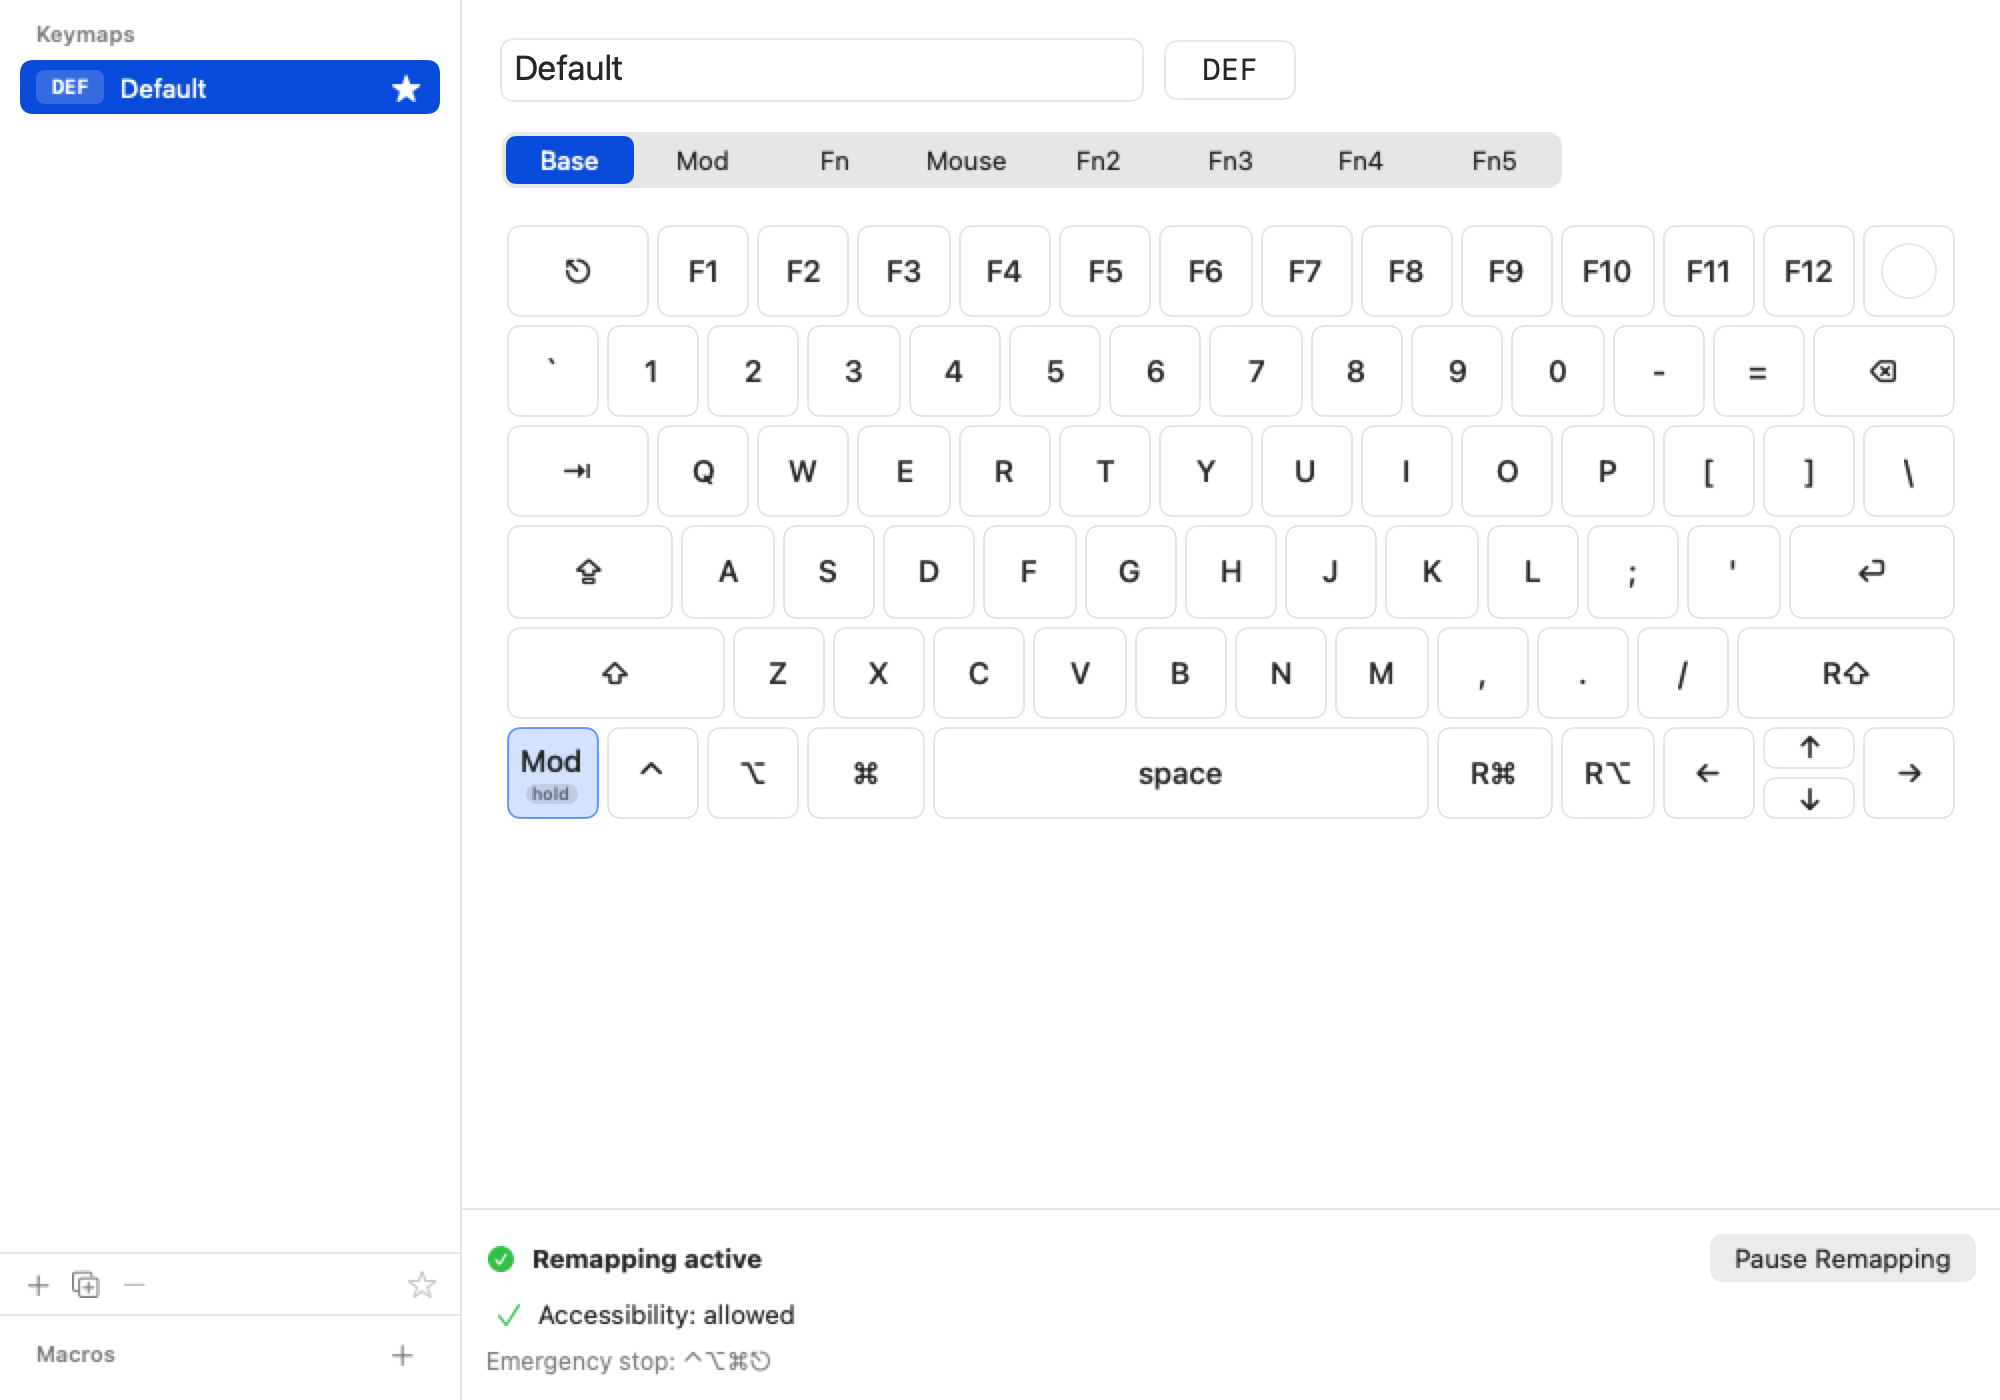
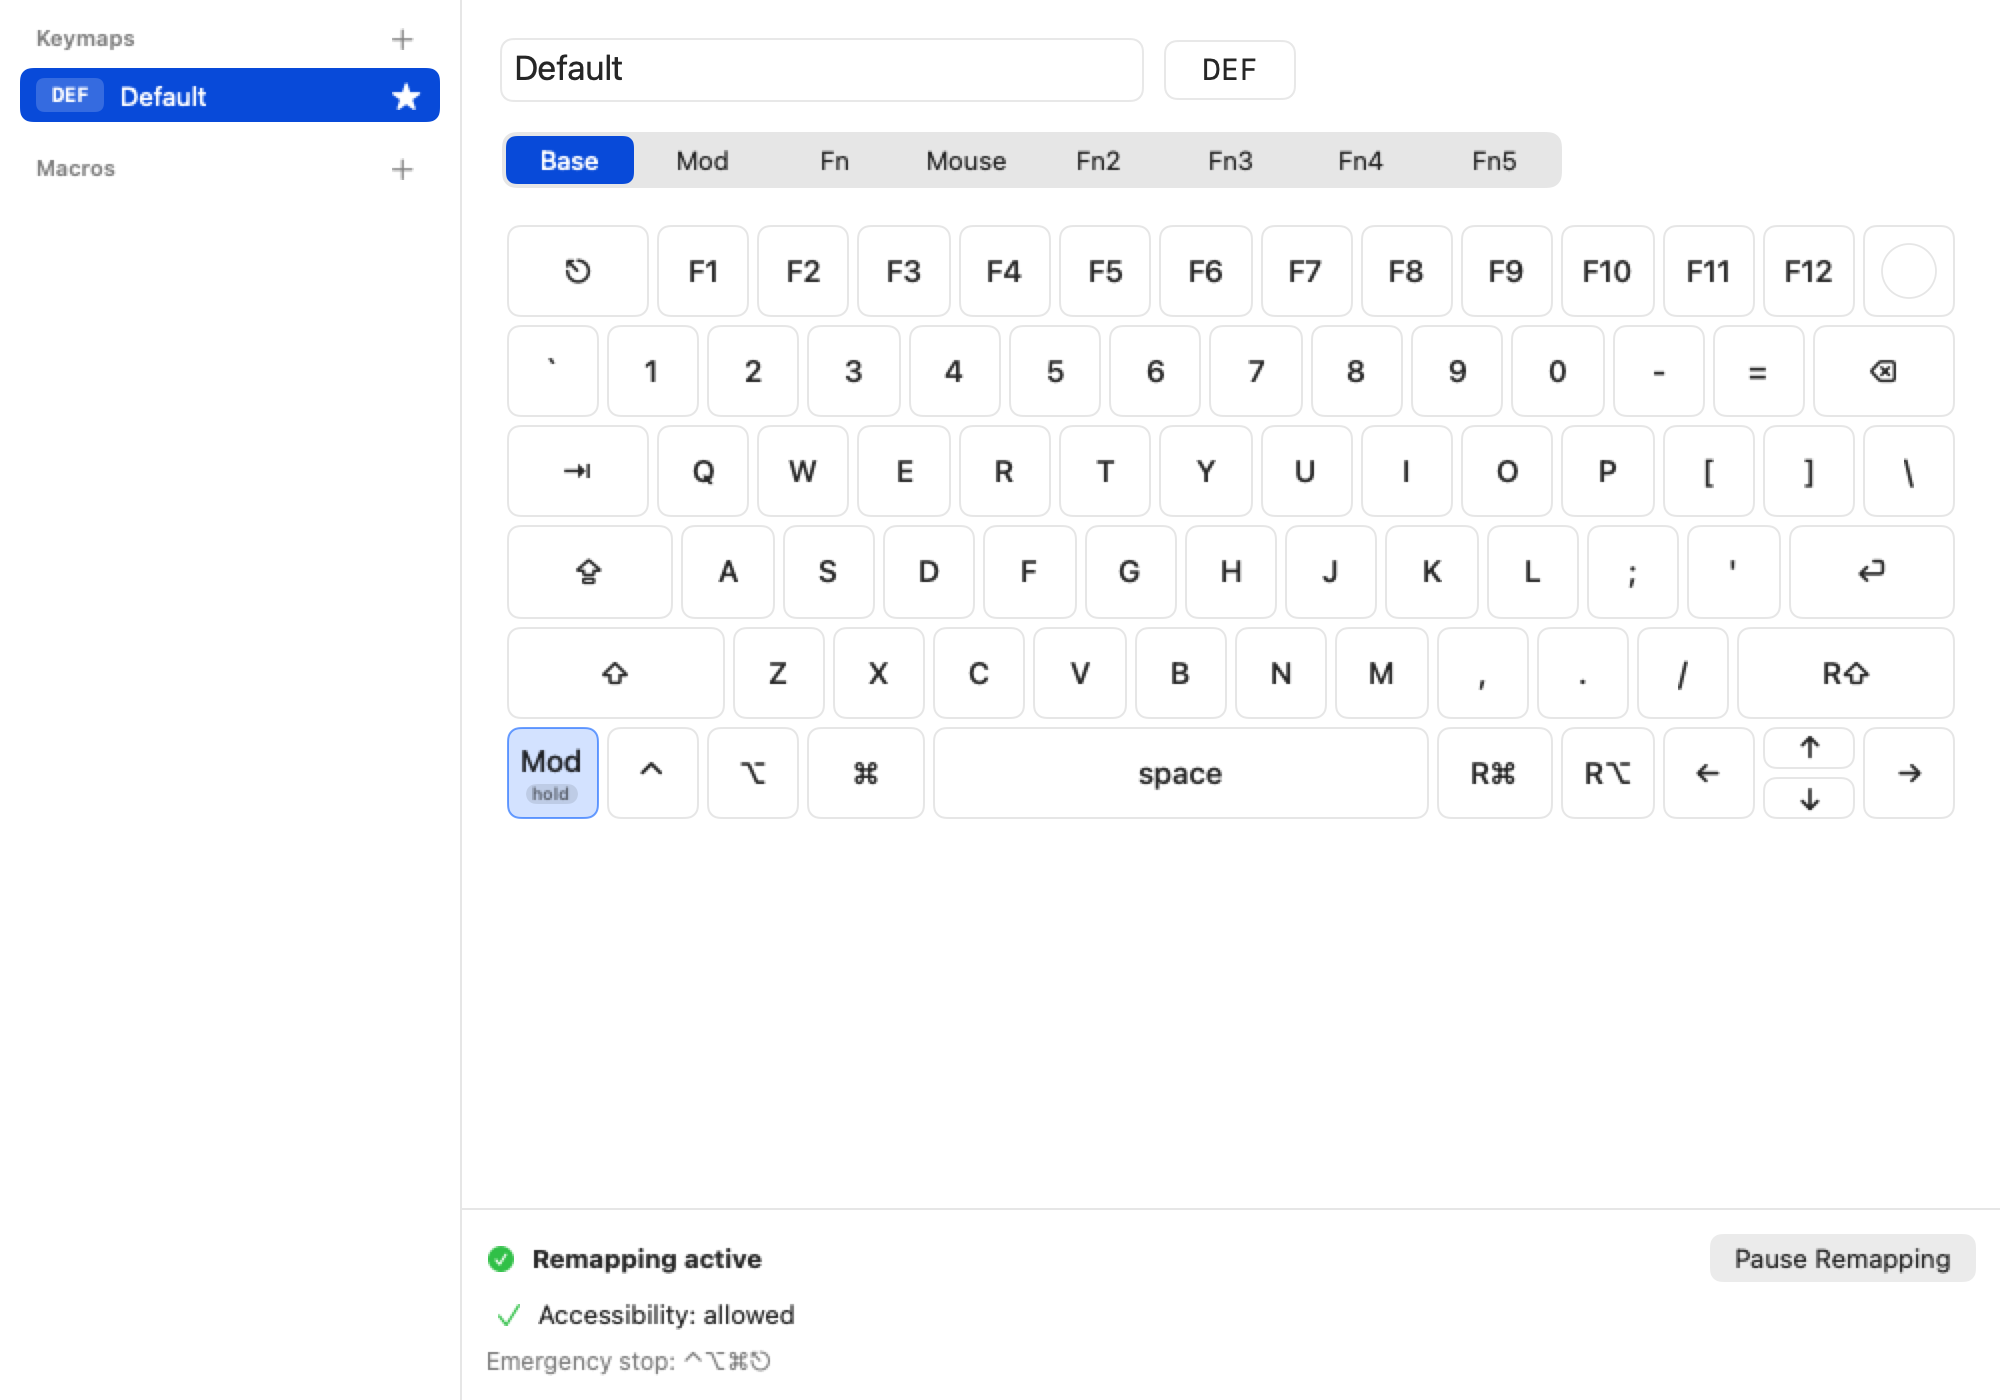
feat(configurator): Finder-style sidebar

Changed region(s): [[0.0, 0.0, 0.217, 0.1229], [0.0, 0.9521, 0.062, 0.9829], [0.031, 0.8907, 0.062, 0.9214]]

diff --git a/Sources/ConfiguratorFeature/KeymapListView.swift b/Sources/ConfiguratorFeature/KeymapListView.swift
@@ -2,7 +2,7 @@ import ComposableArchitecture
 import KeymapModel
 import SwiftUI
 
-/// The sidebar: keymaps plus add / duplicate / delete / set default.
+/// The sidebar's keymaps section: a header with a "+" button, then one row per keymap.
 public struct KeymapListView: View {
   @Bindable var store: StoreOf<KeymapListFeature>
 
@@ -11,92 +11,34 @@ public struct KeymapListView: View {
   }
 
   public var body: some View {
-    VStack(spacing: 0) {
-      // Plain rows rather than `List`: `List` rows are drawn lazily and don't appear in snapshots.
-      ScrollView {
-        VStack(alignment: .leading, spacing: 2) {
-          Text("Keymaps")
-            .font(.subheadline.weight(.semibold))
-            .foregroundStyle(.secondary)
-            .padding(.horizontal, 8)
-            .padding(.bottom, 4)
-          ForEach(store.configuration.keymaps) { keymap in
-            KeymapRow(
-              keymap: keymap,
-              isDefault: keymap.id == store.configuration.defaultKeymapID,
-              isSelected: keymap.id == store.selection
-            ) {
-              store.selection = keymap.id
-            }
-            .accessibilityIdentifier("keymap.row.\(keymap.abbreviation)")
-          }
-        }
-        .padding(10)
-      }
-      Divider()
-      toolbar
-    }
-    .alert($store.scope(state: \.alert, action: \.alert))
-  }
-
-  private var toolbar: some View {
-    HStack(spacing: 2) {
-      button("Add Keymap", systemImage: "plus", identifier: "keymap.add", enabled: !store.isReadOnly) {
+    // Plain rows rather than `List`: `List` rows are drawn lazily and don't appear in snapshots.
+    VStack(alignment: .leading, spacing: 2) {
+      SidebarSectionHeader(
+        title: "Keymaps",
+        addLabel: "Add Keymap",
+        addIdentifier: "keymap.add",
+        isDisabled: store.isReadOnly
+      ) {
         store.send(.addTapped)
       }
-      button(
-        "Duplicate Keymap",
-        systemImage: "plus.square.on.square",
-        identifier: "keymap.duplicate",
-        enabled: !store.isReadOnly && store.selection != nil
-      ) {
-        if let id = store.selection {
-          store.send(.duplicateTapped(id))
+      ForEach(store.configuration.keymaps) { keymap in
+        let isDefault = keymap.id == store.configuration.defaultKeymapID
+        KeymapRow(keymap: keymap, isDefault: isDefault, isSelected: keymap.id == store.selection) {
+          store.selection = keymap.id
         }
-      }
-      button(
-        "Delete Keymap",
-        systemImage: "minus",
-        identifier: "keymap.delete",
-        enabled: store.canDelete && store.selection != nil
-      ) {
-        if let id = store.selection {
-          store.send(.deleteTapped(id))
+        .contextMenu {
+          Button("Duplicate") { store.send(.duplicateTapped(keymap.id)) }
+            .disabled(store.isReadOnly)
+          Button("Set as Default") { store.send(.setDefaultTapped(keymap.id)) }
+            .disabled(store.isReadOnly || isDefault)
+          Button("Delete…", role: .destructive) { store.send(.deleteTapped(keymap.id)) }
+            .disabled(!store.canDelete)
         }
-      }
-      Spacer()
-      button(
-        "Set as Default",
-        systemImage: "star",
-        identifier: "keymap.setDefault",
-        enabled: !store.isReadOnly && store.selection != nil
-          && store.selection != store.configuration.defaultKeymapID
-      ) {
-        if let id = store.selection {
-          store.send(.setDefaultTapped(id))
-        }
+        .accessibilityIdentifier("keymap.row.\(keymap.abbreviation)")
       }
     }
-    .buttonStyle(.borderless)
-    .padding(.horizontal, 8)
-    .padding(.vertical, 6)
-  }
-
-  private func button(
-    _ title: String,
-    systemImage: String,
-    identifier: String,
-    enabled: Bool,
-    action: @escaping () -> Void
-  ) -> some View {
-    Button(action: action) {
-      Image(systemName: systemImage)
-        .frame(width: 22, height: 18)
-    }
-    .help(title)
-    .accessibilityLabel(title)
-    .accessibilityIdentifier(identifier)
-    .disabled(!enabled)
+    .frame(maxWidth: .infinity, alignment: .leading)
+    .alert($store.scope(state: \.alert, action: \.alert))
   }
 }
 

diff --git a/Sources/ConfiguratorFeature/MacroListView.swift b/Sources/ConfiguratorFeature/MacroListView.swift
@@ -13,25 +13,14 @@ public struct MacroListView: View {
   public var body: some View {
     // Plain rows rather than `List`: `List` rows are drawn lazily and don't appear in snapshots.
     VStack(alignment: .leading, spacing: 2) {
-      HStack {
-        Text("Macros")
-          .font(.subheadline.weight(.semibold))
-          .foregroundStyle(.secondary)
-        Spacer()
-        Button {
-          store.send(.addTapped)
-        } label: {
-          Image(systemName: "plus")
-            .frame(width: 22, height: 18)
-        }
-        .buttonStyle(.borderless)
-        .help("Add Macro")
-        .accessibilityLabel("Add Macro")
-        .accessibilityIdentifier("macros.add")
-        .disabled(store.isReadOnly)
+      SidebarSectionHeader(
+        title: "Macros",
+        addLabel: "Add Macro",
+        addIdentifier: "macros.add",
+        isDisabled: store.isReadOnly
+      ) {
+        store.send(.addTapped)
       }
-      .padding(.horizontal, 8)
-      .padding(.bottom, 4)
       ForEach(store.configuration.macros) { macro in
         MacroRow(macro: macro, isSelected: macro.id == store.selection) {
           store.selection = macro.id
@@ -39,13 +28,12 @@ public struct MacroListView: View {
         .contextMenu {
           Button("Duplicate") { store.send(.duplicateTapped(macro.id)) }
             .disabled(store.isReadOnly)
-          Button("Delete", role: .destructive) { store.send(.deleteTapped(macro.id)) }
+          Button("Delete…", role: .destructive) { store.send(.deleteTapped(macro.id)) }
             .disabled(store.isReadOnly)
         }
         .accessibilityIdentifier("macros.row.\(macro.name)")
       }
     }
-    .padding(10)
     .frame(maxWidth: .infinity, alignment: .leading)
     .alert($store.scope(state: \.alert, action: \.alert))
   }

diff --git a/Sources/ConfiguratorFeature/AppView.swift b/Sources/ConfiguratorFeature/AppView.swift
@@ -10,15 +10,31 @@ public struct AppView: View {
     self.store = store
   }
 
+  /// Finder-style: the keymaps and macros sections stacked from the top, empty space below.
+  private var sidebar: some View {
+    ScrollView {
+      VStack(alignment: .leading, spacing: 14) {
+        KeymapListView(store: store.scope(state: \.keymapList, action: \.keymapList))
+        MacroListView(store: store.scope(state: \.macroList, action: \.macroList))
+      }
+      .padding(10)
+    }
+    .focusable()
+    .focusEffectDisabled()
+    .onDeleteCommand {
+      if let id = store.keymapList.selection {
+        store.send(.keymapList(.deleteTapped(id)))
+      } else if let id = store.macroList.selection, !store.macroList.isReadOnly {
+        store.send(.macroList(.deleteTapped(id)))
+      }
+    }
+  }
+
   public var body: some View {
     // A plain split (not NavigationSplitView): its translucent sidebar doesn't render in snapshots.
     HStack(spacing: 0) {
-      VStack(spacing: 0) {
-        KeymapListView(store: store.scope(state: \.keymapList, action: \.keymapList))
-        Divider()
-        MacroListView(store: store.scope(state: \.macroList, action: \.macroList))
-      }
-      .frame(width: 230)
+      sidebar
+        .frame(width: 230)
       Divider()
       VStack(spacing: 0) {
         if let message = store.loadErrorMessage {

diff --git a/Tests/ConfiguratorUITests/ConfiguratorUITests.swift b/Tests/ConfiguratorUITests/ConfiguratorUITests.swift
@@ -108,7 +108,10 @@ final class ConfiguratorUITests: XCTestCase {
     click("keymap.add")
     let added = element("keymap.row.NEW")
     XCTAssertTrue(added.waitForExistence(timeout: 5))
-    click("keymap.delete")
+    added.rightClick()
+    let deleteItem = app.menuItems["Delete…"]
+    XCTAssertTrue(deleteItem.waitForExistence(timeout: 5), "No Delete… in the row's context menu")
+    deleteItem.click()
     let confirm = app.buttons["Delete"].firstMatch
     XCTAssertTrue(confirm.waitForExistence(timeout: 5), "No delete confirmation")
     confirm.click()
@@ -222,7 +225,7 @@ final class ConfiguratorUITests: XCTestCase {
 
   private func waitFor(_ element: XCUIElement, containing expected: String, timeout: TimeInterval = 5) -> Bool {
     waitUntil(timeout: timeout) { self.text(of: element).contains(expected) }
-  } 
+  }
 
   private func waitForDisappearance(_ element: XCUIElement, timeout: TimeInterval = 5) -> Bool {
     waitUntil(timeout: timeout) { !element.exists }

diff --git a/Sources/ConfiguratorFeature/SidebarSectionHeader.swift b/Sources/ConfiguratorFeature/SidebarSectionHeader.swift
@@ -1,0 +1,30 @@
+import SwiftUI
+
+/// A sidebar section's title with its "+" button; shared so every section looks the same.
+struct SidebarSectionHeader: View {
+  let title: String
+  let addLabel: String
+  let addIdentifier: String
+  let isDisabled: Bool
+  let add: () -> Void
+
+  var body: some View {
+    HStack {
+      Text(title)
+        .font(.subheadline.weight(.semibold))
+        .foregroundStyle(.secondary)
+      Spacer()
+      Button(action: add) {
+        Image(systemName: "plus")
+          .frame(width: 22, height: 18)
+      }
+      .buttonStyle(.borderless)
+      .help(addLabel)
+      .accessibilityLabel(addLabel)
+      .accessibilityIdentifier(addIdentifier)
+      .disabled(isDisabled)
+    }
+    .padding(.horizontal, 8)
+    .padding(.bottom, 4)
+  }
+}
